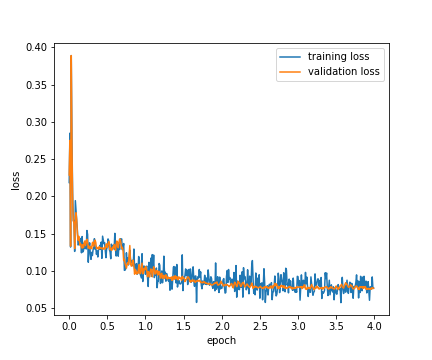
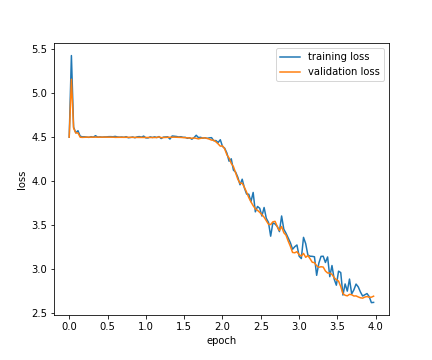
fix minior bugs

diff --git a/model.py b/model.py
@@ -43,21 +43,25 @@ def MyModel(args):
 
 class Conv1dBlock(nn.Module):
 
-    def __init__(self, nin=32, nout=32, kernel_size=5, stride=2, padding="same", r_drop=0, bn=False):
+    def __init__(self, nin=32, nout=32, kernel_size=5, stride=2, padding="same", bn=False, r_drop=0):
         super().__init__()
 
         self.bn = bn
+        self.drop = True if r_drop > 0 else False
 
         self.conv = nn.Conv1d(nin, nout, kernel_size=kernel_size, stride=stride, padding=padding)
-        self.batch_norm = nn.BatchNorm1d(nout)
-        self.drop = nn.Dropout(r_drop)
+        if self.bn:
+            self.batch_norm = nn.BatchNorm1d(nout)
+        if self.drop:
+            self.drop = nn.Dropout(r_drop)
         self.act = nn.LeakyReLU()
 
     def forward(self, x):
         x = self.conv(x)
         if self.bn:
             x = self.batch_norm(x)
-        x = self.drop(x)
+        if self.drop:
+            x = self.drop(x)
         x = self.act(x)
         return x
 
@@ -119,20 +123,19 @@ class ConvNet(nn.Module):
         self.seq_length_out = seq_length_out
 
         padding = int( kernel_size / 2 )
+        bn = False
 
-        input_dims = [ n_feature_in ] + [ hidden_dim * min(2**i, 32) for i in range(n_layer-1) ]
-        output_dims = [ hidden_dim * min(2**i, 32) for i in range(n_layer) ]
-        batch_norms = [ True for i in range(n_layer-1) ]
+        input_dims = [ n_feature_in ] + [ hidden_dim * min(2**i, 8) for i in range(n_layer-1) ]
+        output_dims = [ hidden_dim * min(2**i, 8) for i in range(n_layer) ]
         if n_layer == 1:
             dropout_rates = [ r_drop ]
-        elif n_layer == 2:
-            dropout_rates = [ 0, r_drop ]
         else:
             dropout_rates = [0] + [ r_drop for i in range(n_layer-1) ] 
+            dropout_rates = [0, 0] + [ r_drop for i in range(n_layer-2) ] 
 
         self.blocks = nn.ModuleList([
-            Conv1dBlock(nin=i, nout=j, stride=2, kernel_size=kernel_size, padding=padding, r_drop=r, bn=bn)
-            for i, j, r, bn in zip(input_dims, output_dims, dropout_rates, batch_norms) 
+            Conv1dBlock(nin=i, nout=j, stride=2, kernel_size=kernel_size, padding=padding, bn=bn, r_drop=r)
+            for i, j, r in zip(input_dims, output_dims, dropout_rates)
             ])
 
         ### e.g., for seq_length = 10 with 

diff --git a/utils.py b/utils.py
@@ -77,7 +77,7 @@ def load_data(fnames, data_ids, fname_comb="./Combinations.txt", output_dim=100,
     if len(np.shape(norm_params)) == 1:
         norm_params = norm_params.reshape(1,-1)
 
-    print(f"Reading files... ", file=sys.stderr)
+    print(f"Loading files... ", file=sys.stderr)
 
     ### read input data ###
     data = []
@@ -95,10 +95,8 @@ def load_data(fnames, data_ids, fname_comb="./Combinations.txt", output_dim=100,
 
     ### read target data ###
     n_feature_out = len(output_id)
-    target = np.loadtxt(fname_comb, skiprows=5, usecols=output_id)
+    target = np.loadtxt(fname_comb, skiprows=5, usecols=output_id, ndmin=2)
     target = target[data_ids] # (ndata, n_feature_out)
-    if n_feature_out == 1:
-        target = target.reshape(-1,1) # (ndata, n_feature_out=1)
 
     # if you want to convert it to sin, do so here by, e.g., 
     # target[:,0] = np.sin( np.deg2rad( target[:,0] ))
@@ -109,11 +107,13 @@ def load_data(fnames, data_ids, fname_comb="./Combinations.txt", output_dim=100,
         for i in range(n_feature):
             data[:,:,i] -= norm_params[i,0]
             if norm_params[i,1] > 0: data[:,:,i] /= norm_params[i,1]
+            print("# input feature {:d}: xmin = {:.1f}, dx = {:.1f}".format(i, norm_params[i,0], norm_params[i,1]))
         ## normalize target data
         for ii in range(n_feature_out):
             i = n_feature + ii
             target[:,ii] -= norm_params[i,0]
             if norm_params[i,1] > 0: target[:,ii] /= norm_params[i,1]
+            print("# output feature {:d}: xmin = {:.1f}, dx = {:.1f}".format(ii, norm_params[i,0], norm_params[i,1]))
 
     if loss == "nllloss":
         target = np.array([ [ int( t * output_dim ) if t < 1 else output_dim -1 for t in tt ] for tt in target ])
